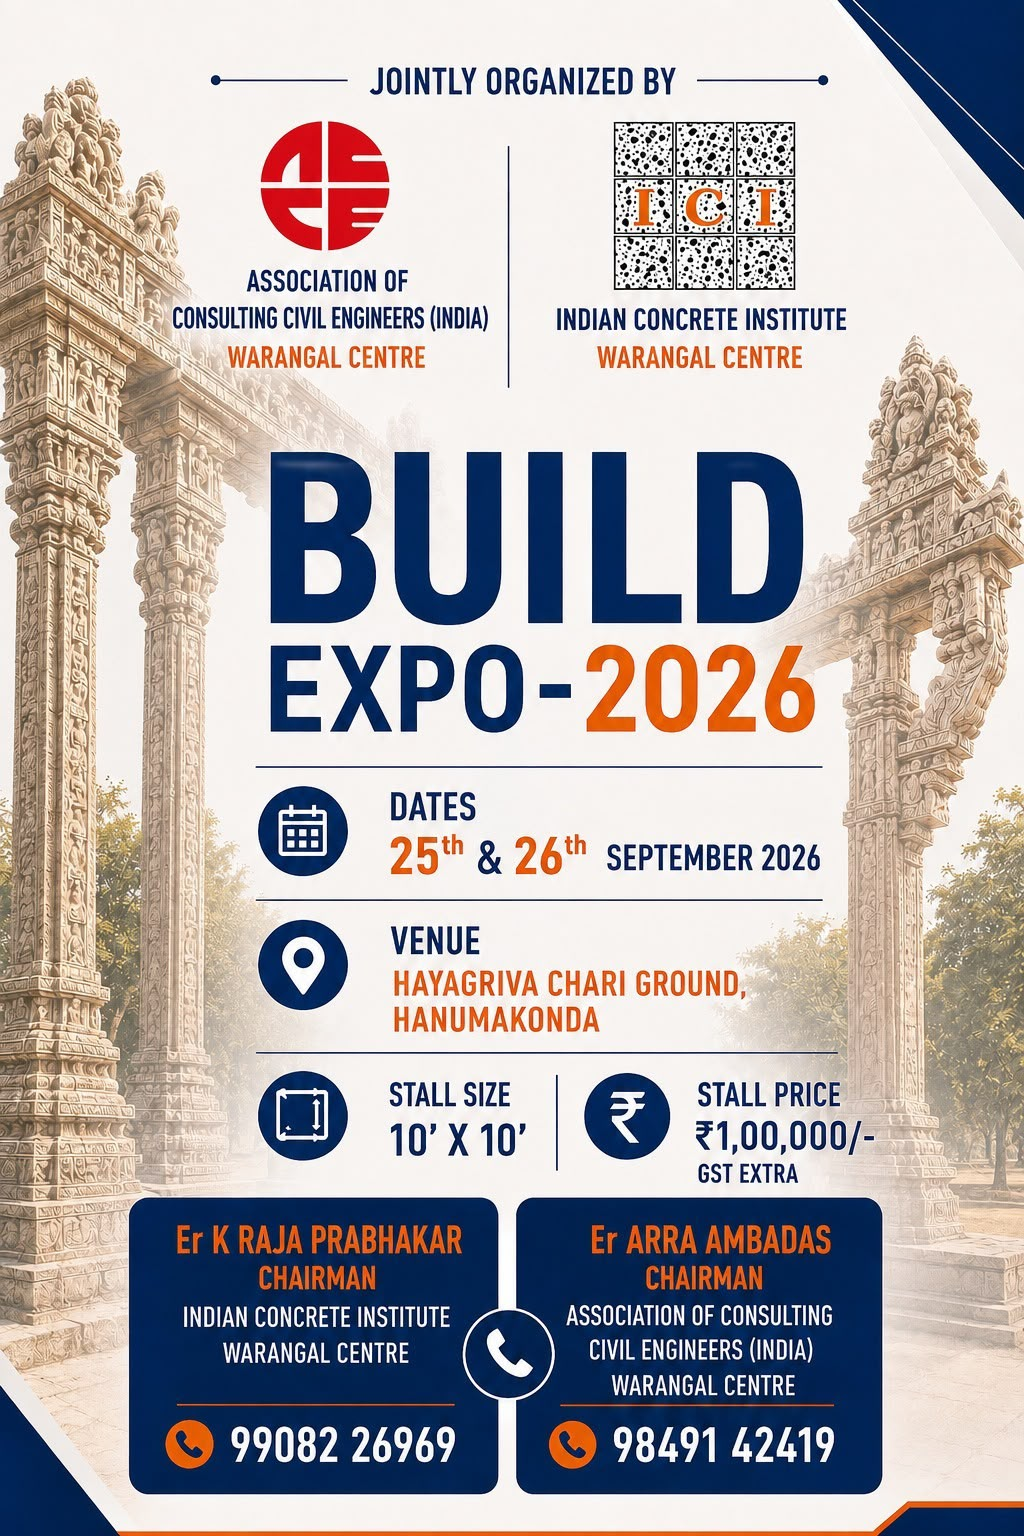
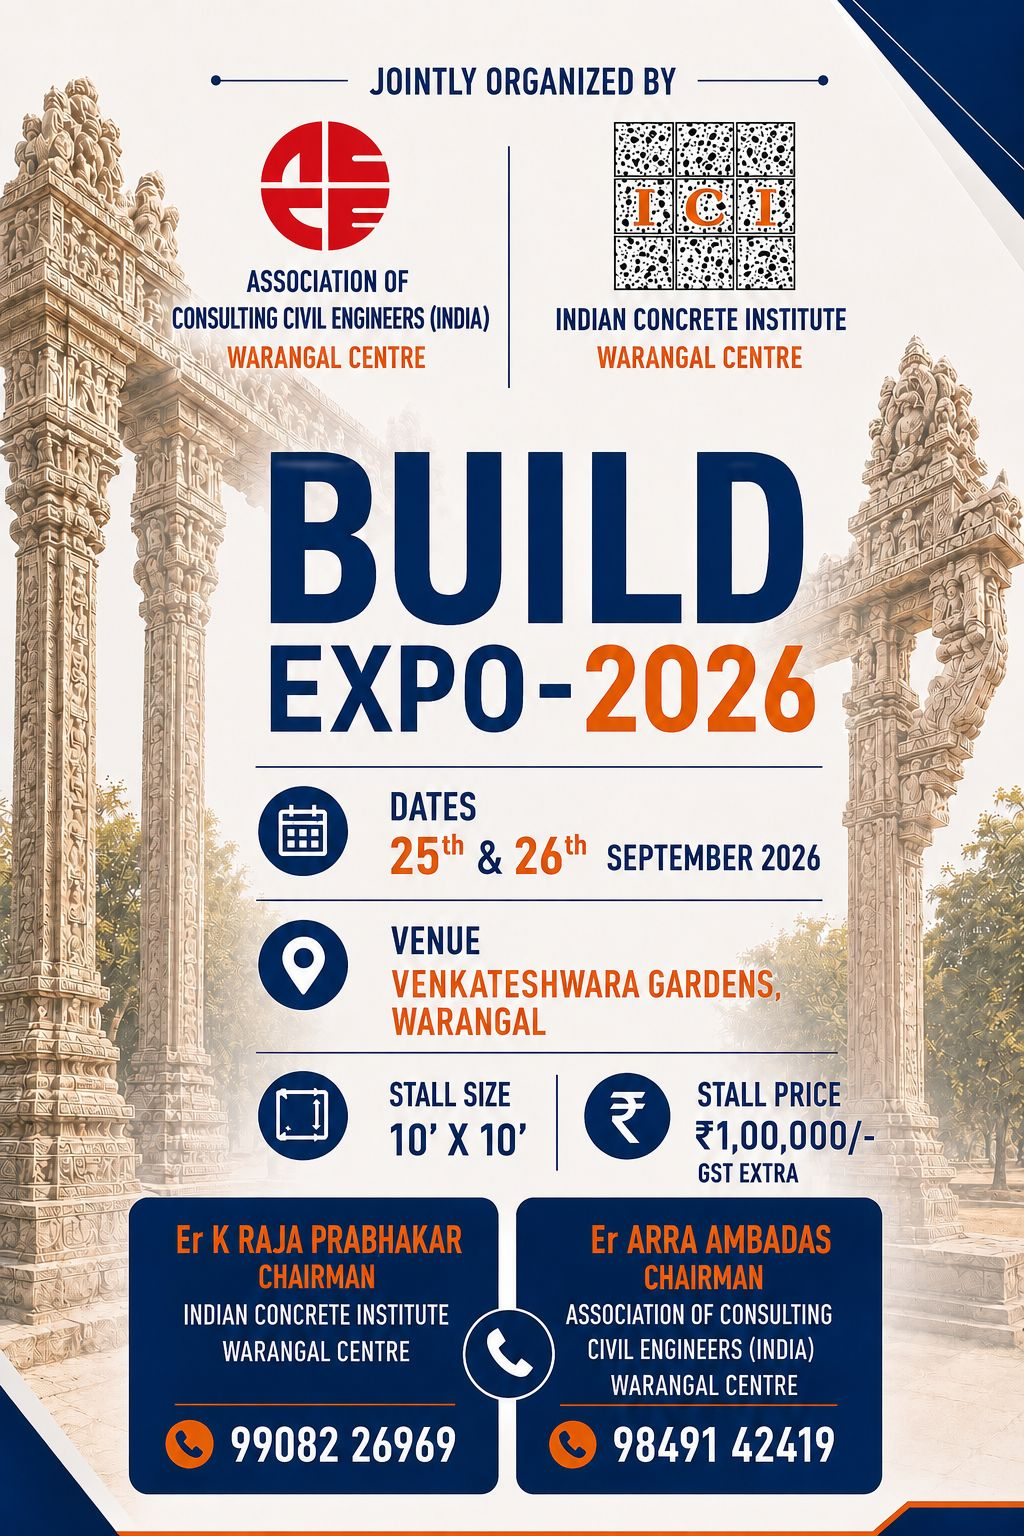
Gallery: fixed grid layout, 3 columns, no crop, responsive

diff --git a/app/page.tsx b/app/page.tsx
@@ -316,18 +316,18 @@ export default function Home() {
               <span className="eyebrow">Gallery</span>
               <h2>Event Moments</h2>
             </div>
-            <div style={{ display: 'grid', gridTemplateColumns: 'repeat(auto-fill, minmax(260px, 1fr))', gap: 20 }}>
+            <div className="gallery-grid">
               {galleryImages.map((img) => (
-                <div key={img.id} style={{ borderRadius: 12, overflow: 'hidden', background: '#fff', boxShadow: '0 8px 30px -10px rgba(10,38,71,0.18)', transition: 'transform 0.2s ease', cursor: 'pointer' }}>
+                <div key={img.id} className="gallery-card">
                   <img
                     src={img.image_url}
                     alt={img.title || 'Event photo'}
-                    style={{ width: '100%', height: 220, objectFit: 'cover', display: 'block' }}
+                    className="gallery-img"
                   />
                   {(img.title || img.caption) && (
-                    <div style={{ padding: '14px 16px' }}>
-                      {img.title && <div style={{ fontFamily: 'var(--font-display)', fontWeight: 700, fontSize: 15, color: '#0A2647', marginBottom: 2 }}>{img.title}</div>}
-                      {img.caption && <div style={{ fontSize: 13, color: '#5A6270' }}>{img.caption}</div>}
+                    <div className="gallery-info">
+                      {img.title && <div className="gallery-title">{img.title}</div>}
+                      {img.caption && <div className="gallery-caption">{img.caption}</div>}
                     </div>
                   )}
                 </div>

diff --git a/app/globals.css b/app/globals.css
@@ -299,6 +299,22 @@ p{margin:0 0 1em;color:#4A5568;}
 .cta-banner h2{font-size:clamp(28px,4vw,42px);margin-bottom:14px;color:var(--paper);}
 .cta-banner p{color:#B8CCE4;}
 
+/* ---------- Gallery ---------- */
+.gallery-grid{display:grid;grid-template-columns:repeat(3,1fr);gap:24px;}
+.gallery-card{background:#fff;border-radius:12px;overflow:hidden;box-shadow:0 8px 30px -10px rgba(10,38,71,0.18);transition:transform 0.25s ease,box-shadow 0.25s ease;}
+.gallery-card:hover{transform:translateY(-4px);box-shadow:0 16px 40px -10px rgba(10,38,71,0.28);}
+.gallery-img{width:100%;height:auto;display:block;}
+.gallery-info{padding:14px 16px;}
+.gallery-title{font-family:var(--font-display);font-weight:700;font-size:15px;color:#0A2647;margin-bottom:2px;}
+.gallery-caption{font-size:13px;color:#5A6270;}
+
+@media (max-width:900px) {
+  .gallery-grid{grid-template-columns:repeat(2,1fr);gap:16px;}
+}
+@media (max-width:560px) {
+  .gallery-grid{grid-template-columns:1fr;gap:14px;}
+}
+
 /* ---------- Contact ---------- */
 .contact-grid{display:grid;grid-template-columns:1fr 1fr;gap:60px;}
 .contact-card{border-top:1px solid var(--line);padding-top:20px;margin-top:20px;}
